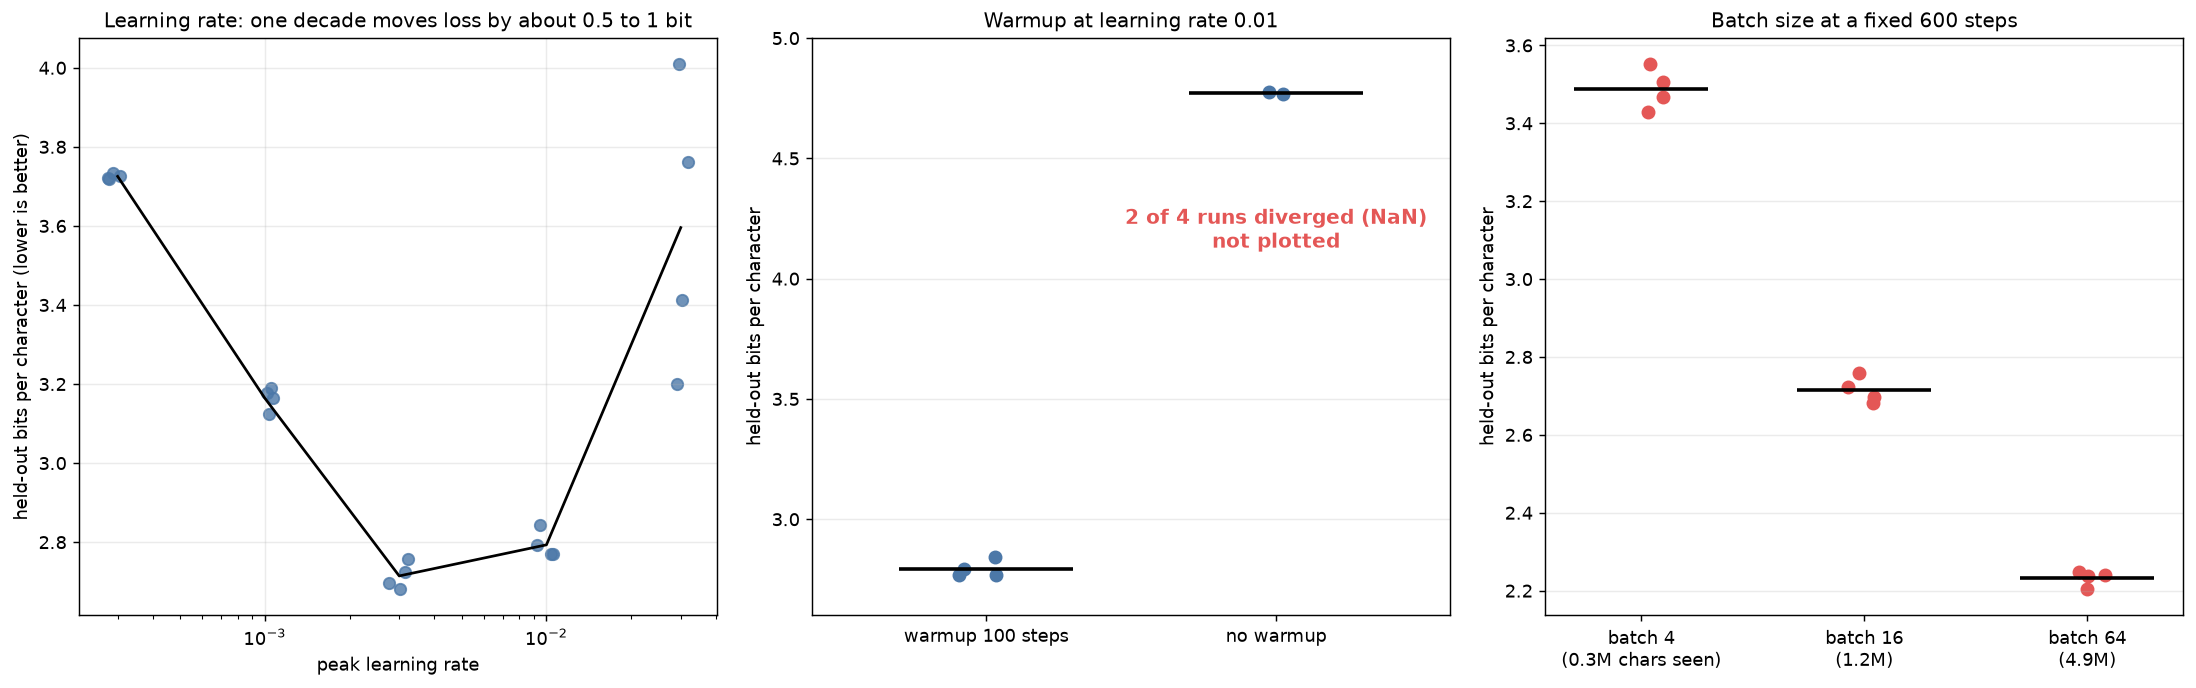
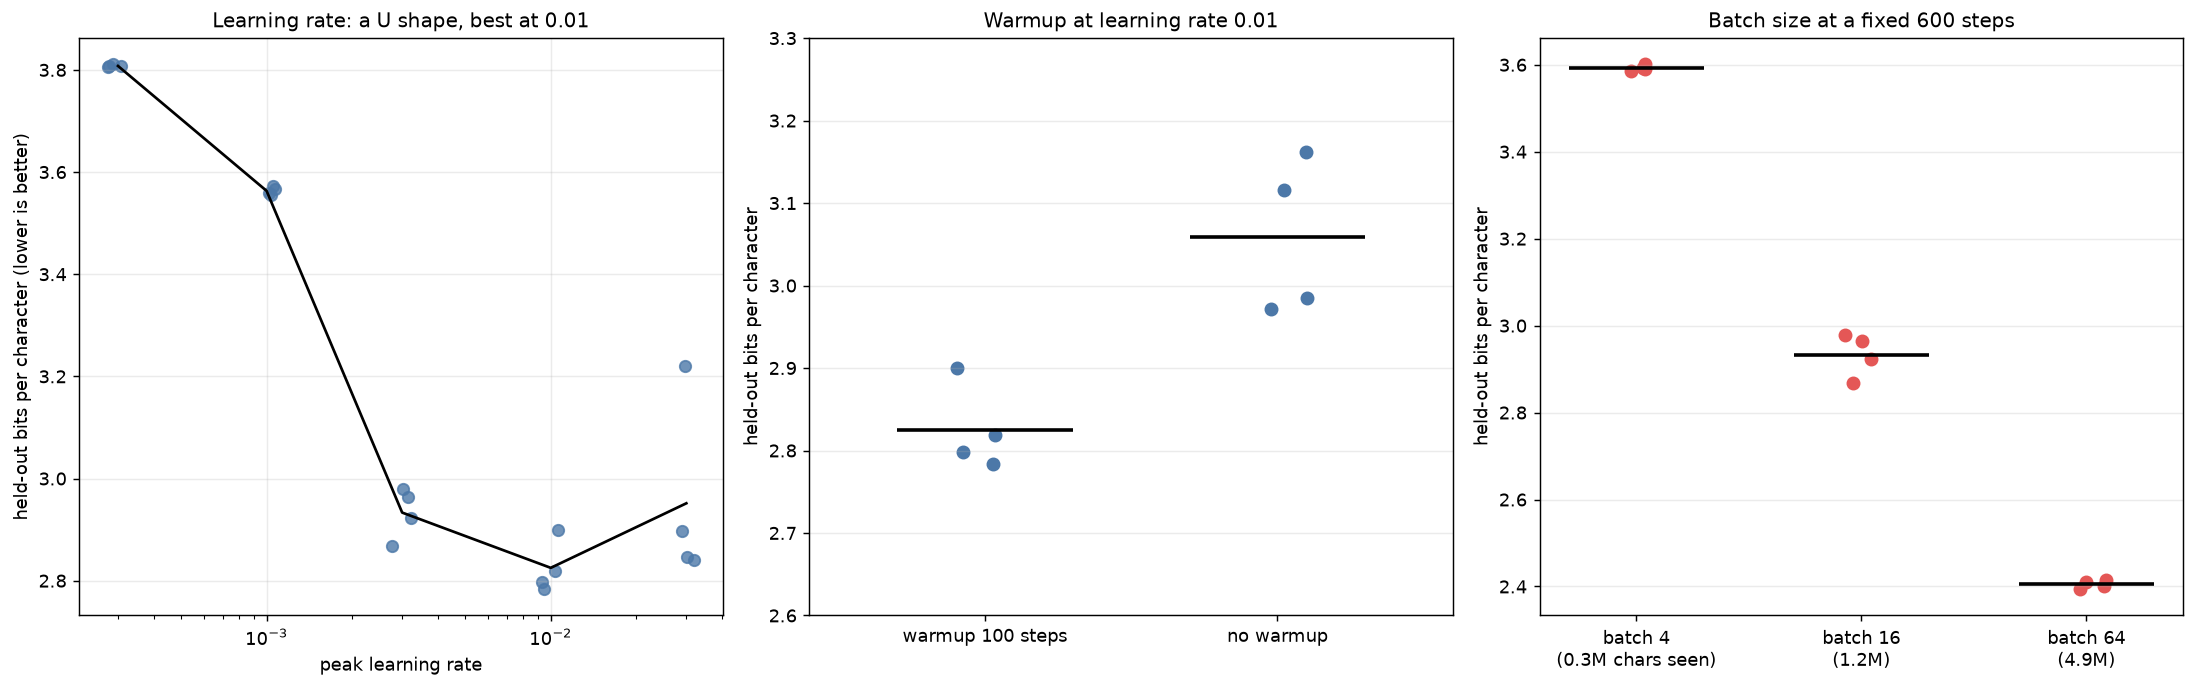
LLM lab part 2: corrected rerun

diff --git a/_posts/2027-07-01-llm-lab-2-hyperparameters.md b/_posts/2027-07-01-llm-lab-2-hyperparameters.md
@@ -1,5 +1,5 @@
 ---
-title: "Improving LLM Performance, Measured (2/6): One Decade of Learning Rate Cost 0.45 Bits, Warmup Decided Whether Runs Diverged, and Seed Noise Was 0.03"
+title: "Improving LLM Performance, Measured (2/6): The Best Learning Rate Sat at 0.01, Skipping Warmup Cost 0.23 Bits, and Seed Noise Was 0.05"
 date: 2027-07-01 06:00:00 +1300
 categories: [Tech, AI/ML]
 tags: [llm, optimisation, learning rate, warmup, batch size, hyperparameters, series]
@@ -19,36 +19,36 @@ The experiment below sweeps the three settings on a small model and measures eac
 
 ## Experiment: learning rate, warmup, batch size
 
-Setup: the same character-level GPT as Part 1 (4 layers, width 128, Pre-LN, under one million parameters), trained for 600 steps on 224 prose documents, AdamW with weight decay 0.01 and a cosine decay to 10 percent of the peak learning rate. Held-out loss is bits per character on 40 held-out documents. Four seeds per setting. Defaults unless varied: peak learning rate 0.003, batch 16 sequences of 128 characters, 100 warmup steps.
+Setup: the same character-level GPT as Part 1 (4 layers, width 128, Pre-LN, under one million parameters), trained for 600 steps on 224 prose documents, AdamW with weight decay 0.01, linear warmup and then a cosine decay to 10 percent of the peak learning rate. Held-out loss is bits per character on 40 held-out documents. Four seeds per setting. Defaults unless varied: peak learning rate 0.003 (a grid point, not the best one, as it turned out), batch 16 sequences of 128 characters, 100 warmup steps.
 
-- **Learning rate** (0.0003, 0.001, 0.003, 0.01, 0.03): held-out bits 3.725, 3.164, **2.715**, 2.793 and 3.596. Going from 0.001 to 0.003 improved loss by 0.450 (p below 0.0001), and from 0.003 to 0.01 loss rose by 0.079 (p = 0.017). The seed standard deviation was 0.007 to 0.034 for the four stable settings. At 0.03 the four runs ended between 3.201 and 4.009 (standard deviation 0.359).
-- **Warmup at learning rate 0.01**: with 100 warmup steps, 2.793 (4 runs finite). With no warmup, 2 of 4 runs diverged to a NaN loss and the other two ended at 4.769 and 4.775.
-- **Batch size at a fixed 600 steps and learning rate 0.003** (batch 4, 16, 64, i.e. 0.3, 1.2 and 4.9 million characters seen): 3.489, 2.715 and 2.232. Both differences are significant (p below 0.0001).
+- **Learning rate** (0.0003, 0.001, 0.003, 0.01, 0.03): held-out bits 3.808, 3.563, 2.933, **2.825** and 2.952. Going from 0.001 to 0.003 improved loss by 0.630 (p = 0.0001), and from 0.003 to 0.01 by a further 0.108 (p = 0.024). At 0.03 the mean was 0.126 worse than at 0.01 (p = 0.26), with a spread of 2.840 to 3.221 (standard deviation 0.181) against 0.05 at 0.003 and 0.01.
+- **Warmup at learning rate 0.01**: with 100 warmup steps 2.825, without warmup 3.059 (four runs from 2.971 to 3.162). Skipping warmup cost 0.233 bits (p = 0.009). No run diverged.
+- **Batch size at a fixed 600 steps and learning rate 0.003** (batch 4, 16, 64, i.e. 0.3, 1.2 and 4.9 million characters seen): 3.592, 2.933 and 2.405. Both differences are significant (p = 0.0001).
 
-![Three panels of held-out bits per character. Left: learning rate from 0.0003 to 0.03, a U shape with the minimum 2.72 at 0.003 and a wide spread at 0.03. Middle: at learning rate 0.01, 100 warmup steps gives 2.79 while no warmup gives 4.77 in two runs and diverges in the other two. Right: batch size 4, 16 and 64 at a fixed 600 steps gives 3.49, 2.72 and 2.23]({{ site.baseurl }}/assets/pic/llm-lab-2-hyperparameters.png){: width="900" }
+![Three panels of held-out bits per character. Left: learning rate from 0.0003 to 0.03, falling from 3.81 to a minimum of 2.83 at 0.01 and rising to 2.95 at 0.03 with a wide spread. Middle: at learning rate 0.01, 100 warmup steps gives 2.83 and no warmup gives 3.06. Right: batch size 4, 16 and 64 at a fixed 600 steps gives 3.59, 2.93 and 2.41]({{ site.baseurl }}/assets/pic/llm-lab-2-hyperparameters.png){: width="900" }
 _Figure: each dot is one seed; bars and lines are means. Measured here._
 
 ## Engineering reading
 
 These points are this series' reading of the sources and the measurement.
 
-1. **The learning rate dwarfs seed noise.** One decade of learning rate moved loss by 0.08 to 1.0 bits, while the seed standard deviation at stable settings was 0.03. Tuning the learning rate on one seed is reliable here; comparing two data or architecture variants whose effects are 0.03 bits is not, which is the problem Part 1 ran into.
-2. **The optimum was narrow and asymmetric.** Loss rose slowly on the slow side (0.003 to 0.001: +0.45) and ended in instability on the fast side (0.03: spread 0.8 bits across seeds). A sweep should extend one step past the best value on the fast side to find the edge.
-3. **Warmup mattered at a high learning rate.** At 0.01 the Pre-LN model without warmup diverged in half the runs and degraded in the rest. This does not contradict Xiong et al., whose claim concerns comparable results at their settings; it shows that on this model, warmup is the cheap insurance when the learning rate is near the edge.
-4. **A batch-size comparison depends on what is held fixed.** At equal steps, batch 64 won by 0.48 bits over batch 16 because it saw four times the data. A fair comparison at equal tokens or compute needs different step counts, and the useful batch size has a ceiling, which is what the noise-scale work predicts.
-5. **Hyperparameters interact.** The best learning rate at one batch size need not be the best at another; this experiment fixed the learning rate while varying the batch size and so cannot say where the optimum moves.
+1. **The learning rate dwarfs seed noise, until the edge.** Between 0.0003 and 0.01 loss moved by about 1 bit while the seed standard deviation was 0.002 to 0.05. Tuning the learning rate on one seed is reliable here; comparing two data or architecture variants whose effects are 0.03 bits is not, which is the problem Part 1 ran into.
+2. **The default grid point was not the optimum.** A learning rate of 0.003 would have been a reasonable guess, yet 0.01 was 0.108 bits better. A sweep should continue until loss turns upward; here the upturn is visible only at 0.03, where the mean was worse but the difference from 0.01 was not significant at 4 seeds, and the spread across seeds had tripled.
+3. **Warmup helped at a high learning rate, as a gain rather than as insurance.** At 0.01 the model trained without warmup, and ended 0.233 bits worse. This is consistent with the direction of Xiong et al. and Wortsman et al., but the model here is Pre-LN and no run diverged. The mechanism (unstable early gradients) was not measured.
+4. **A batch-size comparison depends on what is held fixed.** At equal steps, batch 64 won by 0.53 bits over batch 16 because it saw four times the data. A fair comparison at equal tokens or compute needs different step counts, and the useful batch size has a ceiling, which is what the noise-scale work predicts.
+5. **Hyperparameters interact.** The learning rate was varied at batch 16, and the batch size at learning rate 0.003, which turned out not to be the optimum. The optimum for one setting need not be the optimum for the other, and this design cannot say where it moves.
 
 ## Limits
 
 - Small model, 600 steps, 4 seeds. The optimum learning rate depends on model size, batch size, schedule and training length, so the value 0.003 transfers to nothing outside this setup.
 - The warmup test is at one learning rate and one warmup length; weight decay and the schedule shape were not varied.
+- A first version of this experiment had a bug in the schedule code (the cosine decay was dropped when warmup was on, and the no-warmup arm ran at a far higher learning rate). The experiment was re-run after the fix and the numbers here are from the corrected run.
 - The batch-size arm varies data seen along with batch size (equal steps, not equal tokens); the linear scaling rule from Goyal et al. was not tested.
-- Divergence is reported as the NaN loss at the end of the run; where in the run it happened was not recorded.
 - Literature claims come from abstracts, and the results of those papers were not reproduced.
 
 ## Code and output
 
-The training function from Part 1 gained a warmup argument (default 100, the same as before) and is otherwise unchanged:
+The training function from Part 1 gained a warmup argument (default 100, the same behaviour as before):
 
 ```python
 import glob, os, re, math, random, time, torch, torch.nn as nn, torch.nn.functional as F
@@ -103,7 +103,7 @@ def train(sources, probs, seed, steps=2000, B=32, lr=2e-3, evals=(), warmup=100)
     torch.manual_seed(seed); g = torch.Generator().manual_seed(seed); m = GPT(); opt = torch.optim.AdamW(m.parameters(), lr, weight_decay=0.01)
     probs = torch.tensor(probs, dtype=torch.float)
     for t in range(steps):
-        for gr in opt.param_groups: gr["lr"] = lr * min(1, (t + 1) / warmup) if warmup else 1 * (0.1 + 0.9 * 0.5 * (1 + math.cos(math.pi * t / steps)))
+        for gr in opt.param_groups: gr["lr"] = lr * (min(1, (t + 1) / warmup) if warmup else 1) * (0.1 + 0.9 * 0.5 * (1 + math.cos(math.pi * t / steps)))
         x, y = batch(sources, probs, B, g); loss = F.cross_entropy(m(x).reshape(-1, V), y.reshape(-1)); opt.zero_grad(); loss.backward(); opt.step()
     return [evaluate(m, e) for e in evals]
 if __name__ == "__main__":
@@ -135,20 +135,22 @@ Statistics output:
 
 ```
 runs: 40
-lr      0.0003   n=4 held-out bpc mean 3.725 sd 0.007 min 3.719 max 3.734
-lr      0.001    n=4 held-out bpc mean 3.164 sd 0.028 min 3.125 max 3.190
-lr      0.003    n=4 held-out bpc mean 2.715 sd 0.034 min 2.681 max 2.758
-lr      0.01     n=4 held-out bpc mean 2.793 sd 0.034 min 2.769 max 2.842
-lr      0.03     n=4 held-out bpc mean 3.596 sd 0.359 min 3.201 max 4.009
-warmup  0        n=4 diverged (NaN loss) in 2 of 4 runs; finite runs: [4.769, 4.775]
-warmup  100      n=4 held-out bpc mean 2.793 sd 0.034 min 2.769 max 2.842
-batch   4        n=4 held-out bpc mean 3.489 sd 0.052 min 3.430 max 3.551
-batch   16       n=4 held-out bpc mean 2.715 sd 0.034 min 2.681 max 2.758
-batch   64       n=4 held-out bpc mean 2.232 sd 0.019 min 2.204 max 2.247
-lr 0.003 minus lr 0.001: -0.450, Welch p=0.0000
-lr 0.01 minus lr 0.003: +0.079, Welch p=0.0171
-batch 4 minus batch 16 (lr 3e-3): +0.774, Welch p=0.0000
-batch 64 minus batch 16 (lr 3e-3): -0.482, Welch p=0.0000
+lr      0.0003   n=4 held-out bpc mean 3.808 sd 0.002 min 3.805 max 3.811
+lr      0.001    n=4 held-out bpc mean 3.563 sd 0.008 min 3.555 max 3.572
+lr      0.003    n=4 held-out bpc mean 2.933 sd 0.050 min 2.868 max 2.979
+lr      0.01     n=4 held-out bpc mean 2.825 sd 0.052 min 2.783 max 2.900
+lr      0.03     n=4 held-out bpc mean 2.952 sd 0.181 min 2.840 max 3.221
+warmup  0        n=4 held-out bpc mean 3.059 sd 0.095 min 2.971 max 3.162
+warmup  100      n=4 held-out bpc mean 2.825 sd 0.052 min 2.783 max 2.900
+batch   4        n=4 held-out bpc mean 3.592 sd 0.006 min 3.585 max 3.601
+batch   16       n=4 held-out bpc mean 2.933 sd 0.050 min 2.868 max 2.979
+batch   64       n=4 held-out bpc mean 2.405 sd 0.010 min 2.394 max 2.415
+lr 0.003 minus lr 0.001: -0.630, Welch p=0.0001
+lr 0.01 minus lr 0.003: -0.108, Welch p=0.0238
+lr 0.03 minus lr 0.01: +0.126, Welch p=0.2611
+warmup 0 minus warmup 100 (lr 1e-2): +0.233, Welch p=0.0089
+batch 4 minus batch 16 (lr 3e-3): +0.659, Welch p=0.0001
+batch 64 minus batch 16 (lr 3e-3): -0.528, Welch p=0.0001
 ```
 
 Next: Part 3 covers quantisation and pruning: how much accuracy a model gives up per bit removed.
